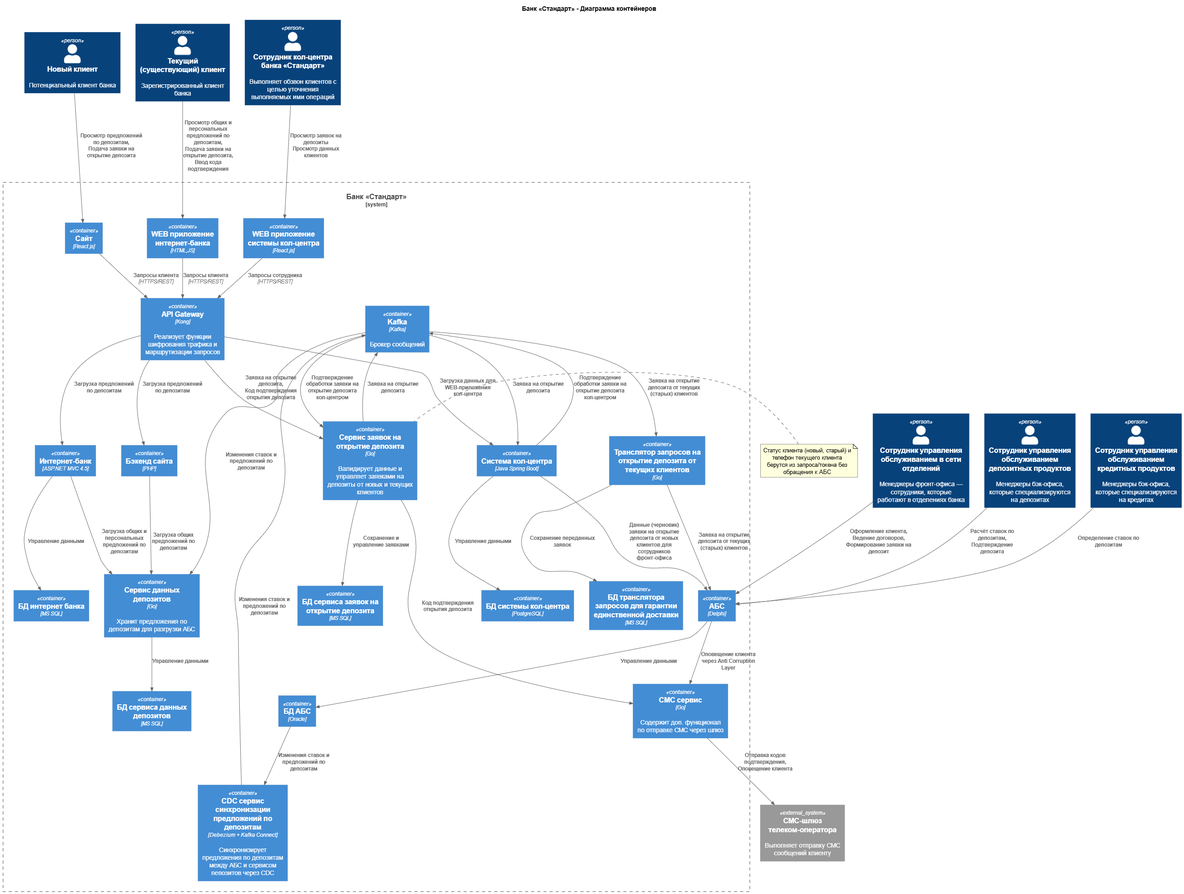
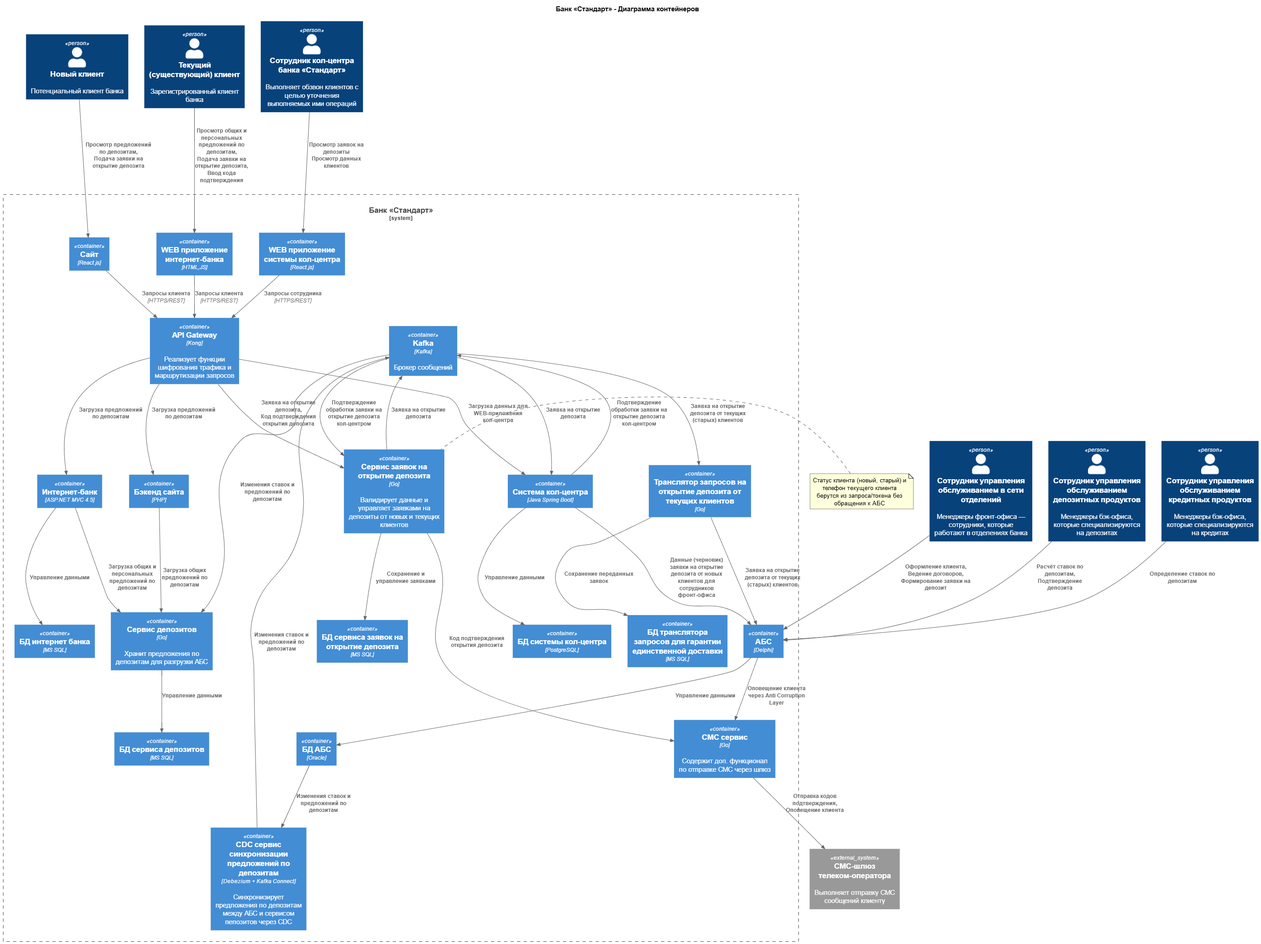
Выполнено задание 4, исправлено 3

diff --git a/Task3/открытие-депозитов-онлайн-ADR.md b/Task3/открытие-депозитов-онлайн-ADR.md
@@ -5,11 +5,11 @@
 
 |**№**|**Действующие лица или системы**|**Use Case**|**Описание**|**Комментарий**|
 | :-: | :- | :- | :- | :- |
-|UC1|Новый клиент,<br>Сайт,<br>Сервис данных депозитов|Просмотр предложений|1. Клиент заходит на сайт<br>2. Клиент открывает раздел депозитов<br>3. Сайт загружает список доступных депозитов со ставками и отображает их|F1
+|UC1|Новый клиент,<br>Сайт,<br>Сервис депозитов|Просмотр предложений|1. Клиент заходит на сайт<br>2. Клиент открывает раздел депозитов<br>3. Сайт загружает список доступных депозитов со ставками и отображает их|F1
 |UC2|Новый клиент,<br>Сайт,<br>Сервис заявок на открытие депозита,<br>Система кол-центра|Заявка на открытие депозита новым клиентом |1. Клиент находится в разделе депозитов<br>2. Клиент нажимает на предложение<br>3.Клиент вводит ФИО и номер телефона<br>4. Данные клиента и выбранное предложение отправляются в сервис заявок на открытие депозита<br>5. Данные клиента и выбранное предложение отправляются в систему кол-центра|F2
 |UC3|Сотрудник кол-центра банка Стандарт,<br>Система кол-центра,<br>Сервис заявок на открытие депозита,<br>АБС|Уточнение заявки на открытие депозита для нового клиента|1. Сотрудник кол-центра банка Стандарт заходит в систему кол-центра<br>2. Сотрудник выполняет обзвон потенциальных клиентов по списку заявок и уточняет условия открытия депозита<br>3. Сотрудник уточняет заявку и заводит черновик в АБС для сотрудников фронт-офиса,<br>4. Сотрудник кол-центра банка Стандарт подтверждает обработку заявки в сервисе заявок на открытие депозита|F3
 |UC4|Новый клиент,<br>Управление обслуживанием в сети отделений,<br>АБС|Идентификация нового клиента в банке|1. Клиент приходит в банк<br>2. Сотрудник фронт-офиса получает данные (черновик) заявки из АБС<br>3. Сотрудник фронт-офиса получает документы клиента и регистрирует его в системе и интернет-банке,<br>4. Сотрудник фронт-офиса удаляет черновик заявки из АБС,<br>5. Сотрудник фронт-офиса создаёт заявку на открытие депозита для нового идентифицированного клиента в АБС|F6
-|UC5|Текущий (старый) клиент,<br>Интернет-банк,<br>Сервис данных депозитов|Просмотр предложений|1. Клиент заходит в интернет-банк<br>2. Клиент открывает раздел депозитов<br>3. Интернет-банк загружает список доступных депозитов с общими ставками и персональные предложения, и отображает их|F7
+|UC5|Текущий (старый) клиент,<br>Интернет-банк,<br>Сервис депозитов|Просмотр предложений|1. Клиент заходит в интернет-банк<br>2. Клиент открывает раздел депозитов<br>3. Интернет-банк загружает список доступных депозитов с общими ставками и персональные предложения, и отображает их|F7
 |UC6|Текущий (старый) клиент,<br>Интернет-банк,<br>Сервис заявок на открытие депозита,<br>СМС-шлюз телеком-оператора,<br>АБС|Заявка на открытие депозита текущим клиентом |1. Клиент находится в разделе депозитов интернет-банка<br>2. Клиент нажимает на общее или персональное предложение<br>3.Клиент выбирает счёт и сумму депозита<br>4. Данные клиента и выбранное предложение отправляются в сервис заявок на открытие депозита<br>5. Клиенту высылается СМС с кодом подтверждения<br>6. Клиент вводит код подтверждения в специальное поле в интернет-банке<br>7. Сервис заявок на открытие депозита формирует заявку в АБС|F7+F8+F9
 |UC7|Управление обслуживанием депозитных продуктов,<br>Управление обслуживанием кредитных продуктов,<br>АБС,<br>СМС-шлюз телеком-оператора|Подтверждение депозита клиенту|1. Сотрудник управления депозитами получает данные клиента и запускает стандартную процедуру согласования депозита с участием сотрудников бэк-офиса кредитов<br>2. Сотрудник управления депозитами фиксирует депозит по уточнённой ставке в АБС<br>3. АБС информирует клиента об одобрении депозита по СМС|F4+F5+F10
 
@@ -50,14 +50,14 @@
   + Выполняет функцию маршрутизации для сокрытия сложностей взаимодействия микросервисов.
   + Выполняет балансировку нагрузки
 * Сервис заявок на открытие депозитов - Служит для хранения заявок на открытие депозитов от новых и старых пользователей. Принимается, что данные старых пользователей (включая телефон для оповещения) может быть получен через claims токена, который передавается от авторизованного клиента в процессе запроса.
-* Сервис данных депозитов - Служит для хранения предложений и ставок по депозитам и снижения нагрузки на АБС.
+* Сервис депозитов - Служит для хранения предложений и ставок по депозитам и снижения нагрузки на АБС.
 * Kafka:
   + Используется для уменьшения связности между сервисами.
   + Устраняет лавинообразный эффект синхронного взаимодействия при увеличении нагрузки.
   + Упрощает масштабирование сервисов при высокой нагрузке.
   + Сохраняет сообщения для повышения надежности. 
-* Сервис трансляции запросов на открытие депозита от текущих клиентов - служит для синхронизации заявок от текущих (старых) клиентов между новым сервисом заявок на открытие депозитов и АБС.
-* CDC сервис синхронизации предложений по депозитам - ввиду того, что изменение монолита АБС трудоемко и не входит в задачи MVP, используется Debezium + Kafka Connect для синхронизации изменений между БД АБС и новым сервисом данных депозитов через Kafka.
+* Сервис трансляции запросов на открытие депозита от текущих клиентов - служит для синхронизации заявок от текущих (старых) клиентов между новым сервисом заявок на открытие депозитов и АБС. Необходим как адаптер, т.к. АБС не совместим с Kafka, но имеет API для добавления заявок на оформление депозитов.
+* CDC сервис синхронизации предложений по депозитам - ввиду того, что изменение монолита АБС трудоемко и не входит в задачи MVP, используется Debezium + Kafka Connect для синхронизации изменений между БД АБС и новым сервисом депозитов через Kafka.
 * СМС сервис - может быть выделен из АБС для устранения зависимости от внешней команды разработки. 
 
 **Логика принятия решений и выбора технологий:**

diff --git a/Task4/передача-ставок-в-кол-центр-ADR.md b/Task4/передача-ставок-в-кол-центр-ADR.md
@@ -5,8 +5,8 @@
 
 |**№**|**Действующие лица или системы**|**Use Case**|**Описание**|
 | :-: | :- | :- | :- |
-|UC8|Сервис данных депозитов,<br>Kafka,<br>Система кол-центра|Передача ставок в кол-центр банка Стандарт|1. Актуальные ставки попадают в сервис данных депозитов согласно UC8<br>2. Сервис данных депозитов пересылает ставки в Kafka в согласованном формате<br>3. Система кол-центра считывает ставки из Kafka и сохраняет в своей БД<br>4. Ставки загружаются в UI системы кол-центра и становятся доступны операторам|
-|UC9|Сервис данных депозитов,<br>SMTP сервер банка,<br>Email сервер партнёрского кол-центра,<br>Система партнёрского кол-центра|Передача ставок в партнёрский кол-центр|1. Актуальные ставки попадают в сервис данных депозитов согласно UC8<br>2. Сервис данных депозитов пересылает ставки в согласованном Excel файле по Email в виде вложения в открытом виде. Сам Excel файл подписан ЭЦП.<br>3. Сотрудник партнерского кол-центра разархивирует полученный в письме файл и проверяет что данные не повреждены и пришли от доверенного источника на основании подписи.<br>4. Сотрудник партнерского кол-центра (или их внутренняя система автоматизации) загружает данные из файла в систему партнерского кол-центра<br>5. Ставки загружаются в UI системы партнерского кол-центра и становятся доступны операторам|
+|UC8|Сервис депозитов,<br>Kafka,<br>Система кол-центра|Передача ставок в кол-центр банка Стандарт|1. Актуальные ставки содержатся в сервисе депозитов<br>2. Сервис депозитов пересылает ставки в Kafka в согласованном формате<br>3. Система кол-центра считывает ставки из Kafka и сохраняет в своей БД<br>4. Ставки загружаются в UI системы кол-центра и становятся доступны операторам|
+|UC9|Сервис депозитов,<br>SMTP сервер банка,<br>Email сервер партнёрского кол-центра,<br>Система партнёрского кол-центра|Передача ставок в партнёрский кол-центр|1. Актуальные ставки содержатся в сервисе депозитов<br>2. Сервис депозитов пересылает ставки в согласованном Excel файле по Email в виде вложения в открытом виде. Сам Excel файл подписан ЭЦП.<br>3. Сотрудник партнерского кол-центра скачивает полученный в письме файл и проверяет что данные не повреждены и пришли от доверенного источника на основании подписи.<br>4. Сотрудник партнерского кол-центра (или их внутренняя система автоматизации) загружает данные из файла в систему партнерского кол-центра<br>5. Ставки загружаются в UI системы партнерского кол-центра и становятся доступны операторам|
 
 ### <a name="_u8xz25hbrgql"></a>**Нефункциональные требования**
 
@@ -22,7 +22,7 @@
 
 **Ключевые компоненты:**
 
-* Сервис данных депозитов - служит для хранения предложений и ставок по депозитам и снижения нагрузки на АБС.
+* Сервис депозитов - служит для хранения предложений и ставок по депозитам и снижения нагрузки на АБС.
 * Kafka теперь дополнительно ипользуется для передачи ставок в кол-центр банка.
 * SMTP сервер служит для отправки файла со ставками в партнёрский кол-центр.
 

diff --git a/Task4/список-крупных-задач.md b/Task4/список-крупных-задач.md
@@ -1,0 +1,65 @@
+## Список крупных задач в рамках MVP:
+
+#### АБС:
+* T1 - Создание черновика заявки на открытие депозита
+* T2 - Установка и расчёт ставок по депозитам для клиентов
+* T3 - Выделение логики отправки СМС через Anti Corruption Layer
+* T34 - Доработка документации
+
+#### Сайт:
+* T4 - Отображение предложений по депозитам
+* T5 - Оформление заявки на открытие депозита
+
+#### Интернет-банк:
+* T6 - Отображение общих и персональных предложений по депозитам
+* T7 - Оформление заявки на открытие депозита
+
+#### Сервис заявок на открытие депозита:
+* T8 - Управление заявками на открытие депозита
+* T9 - Генерация и проверка СМС кода подтверждения
+
+#### Сервис депозитов:
+* T10 - Управление (CRUD) общими и персональными ставками
+* T12 - Интеграция с Kafka
+* T13 - Формирование Excel-файла со ставками для партнёрского кол-центра
+* T14 - Отправка Excel-файла по Email
+
+#### СМС-сервис:
+* T15 - Разработка сервиса отправки СМС
+* T16 - Интеграция со СМС-шлюзом телеком-оператора
+
+#### Система кол-центра:
+* T17 - Интеграция с Kafka
+* T18 - Работа с заявками и ставками по депозитам
+* T19 - Доработка UI сотрудника
+
+#### Система партнёрского кол-центра:
+* T20 - Загрузка ставок из Excel файла
+* T21 - Доработка UI сотрудника
+
+#### Инфраструктура:
+* T22 - Развёртывание API Gateway
+* T23 - Развёртывание Kafka
+* T24 - Развёртывание CDC сервиса синхронизации ставок по депозитам
+* T25 - Настройка масштабирования сервисов в двух ЦОД
+
+
+## Список дополнительных крупных задач для периода в 1 год:
+
+#### АБС:
+* T26 - Автоматическое определения ставки для конкретного клиента, для исключения сотрудников бэк-офиса из оффлайн оформления
+
+#### Интернет-банк:
+* T27 - Автоматическое открытие депозита или накопительного счёта
+* T28 - Подача кредитной заявки
+
+#### Сервис кредитов:
+* T29 - Перенесение логики работы с кредитами из АБС
+* T30 - Управление предодобренными предложениями
+
+#### Сервис депозитов:
+* T31 - Автоматическое открытие депозита или накопительного счёта
+* T32 - Перенесение логики работы с депозитами из АБС
+
+#### Инфраструктура:
+* T33 - Настройка масштабирования сервисов в двух ЦОД для новых сервисов

diff --git a/README.md b/README.md
@@ -25,3 +25,14 @@
 ### Задание 3
 
 [Открытие депозитов онлайн в форме ADR](Task3/открытие-депозитов-онлайн-ADR.md)
+
+
+### Задание 4
+
+[Передача ставок в кол центр в форме ADR](Task4/передача-ставок-в-кол-центр-ADR.md)
+
+[Список крупных задач](Task4/список-крупных-задач.md)
+
+[Road map в drawio](Task4/road-map.drawio)
+
+![Road map в drawio](Task4/road-map.drawio.png)
